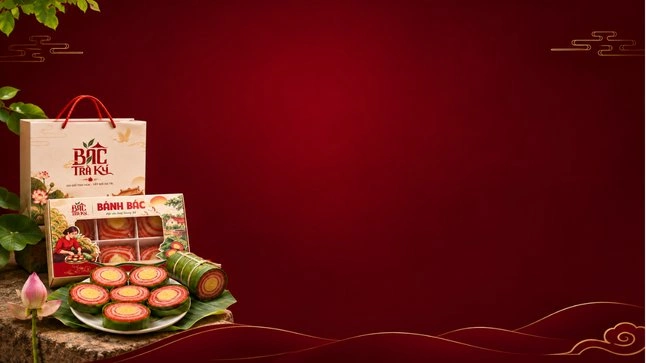
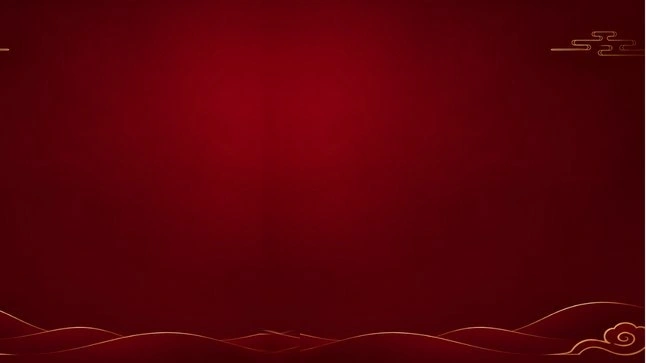
fix(offer): properly separate background and product combo image to avoid excessive zoom on wide displays

Changed region(s): [[0.0, 0.2121, 0.4644, 1.0], [0.0, 0.0, 0.1548, 0.1818]]

diff --git a/src/components/sections/home/offer-campaign.tsx b/src/components/sections/home/offer-campaign.tsx
@@ -21,7 +21,7 @@ export function OfferCampaign({ offer, serverNow, preview, discount, expired, ch
       aria-describedby={preview ? "offer-preview-notice" : undefined}
       className="on-dark relative isolate min-w-0 scroll-mt-24 overflow-hidden w-full bg-son-deep py-12 text-be shadow-2xl lg:py-20"
     >
-      {/* Slide 16: Sử dụng nền này và hiệu ứng tràn màn hình sang trọng */}
+      {/* Nền sơn son truyền thống hoa văn mây vàng */}
       <div className="pointer-events-none absolute inset-0 -z-10 overflow-hidden">
         <Image
           src="/images/brand/nen-uu-dai-clean.webp"
@@ -29,9 +29,9 @@ export function OfferCampaign({ offer, serverNow, preview, discount, expired, ch
           fill
           priority
           sizes="100vw"
-          className="object-cover object-left md:object-center"
+          className="object-cover object-center"
         />
-        <div aria-hidden="true" className="absolute inset-0 bg-[#300609]/60 md:hidden" />
+        <div aria-hidden="true" className="absolute inset-0 bg-[#300609]/40" />
       </div>
       {preview && (
         <p id="offer-preview-notice" className="m-0 border-b border-nhu/55 bg-be px-4 py-3 text-center text-xs font-bold tracking-widest text-son">
@@ -40,8 +40,19 @@ export function OfferCampaign({ offer, serverNow, preview, discount, expired, ch
       )}
       <div className="wrap relative z-10 mx-auto px-5 py-7 sm:px-9 sm:py-10 lg:py-12">
         <div className="grid items-center gap-8 lg:grid-cols-12 lg:gap-12">
-          {/* Cột trái để lộ sản phẩm trong ảnh nền trên màn hình lớn */}
-          <div aria-hidden="true" className="hidden lg:block lg:col-span-5 xl:col-span-6" />
+          {/* Cột trái: Hình ảnh sản phẩm combo Bác Trà Ký sắc nét, cân đối, không bị phóng to hay cắt góc */}
+          <div className="flex items-center justify-center lg:col-span-5 xl:col-span-6">
+            <div className="relative aspect-[4/5] w-full max-w-[280px] sm:max-w-[340px] lg:max-w-[400px] drop-shadow-[0_20px_35px_rgba(0,0,0,0.6)]">
+              <Image
+                src="/images/brand/combo-uu-dai.webp"
+                alt="Bộ combo túi xách và hộp Bánh Bác truyền thống Bác Trà Ký"
+                fill
+                priority
+                sizes="(min-width: 1280px) 400px, (min-width: 1024px) 340px, 280px"
+                className="object-contain object-center"
+              />
+            </div>
+          </div>
 
           {/* Cột phải: Thông tin ưu đãi, đồng hồ đếm ngược và form nhận ưu đãi */}
           <div data-offer-center className="col-span-12 mx-auto w-full max-w-xl min-w-0 text-center lg:col-span-7 xl:col-span-6 lg:mx-0">
